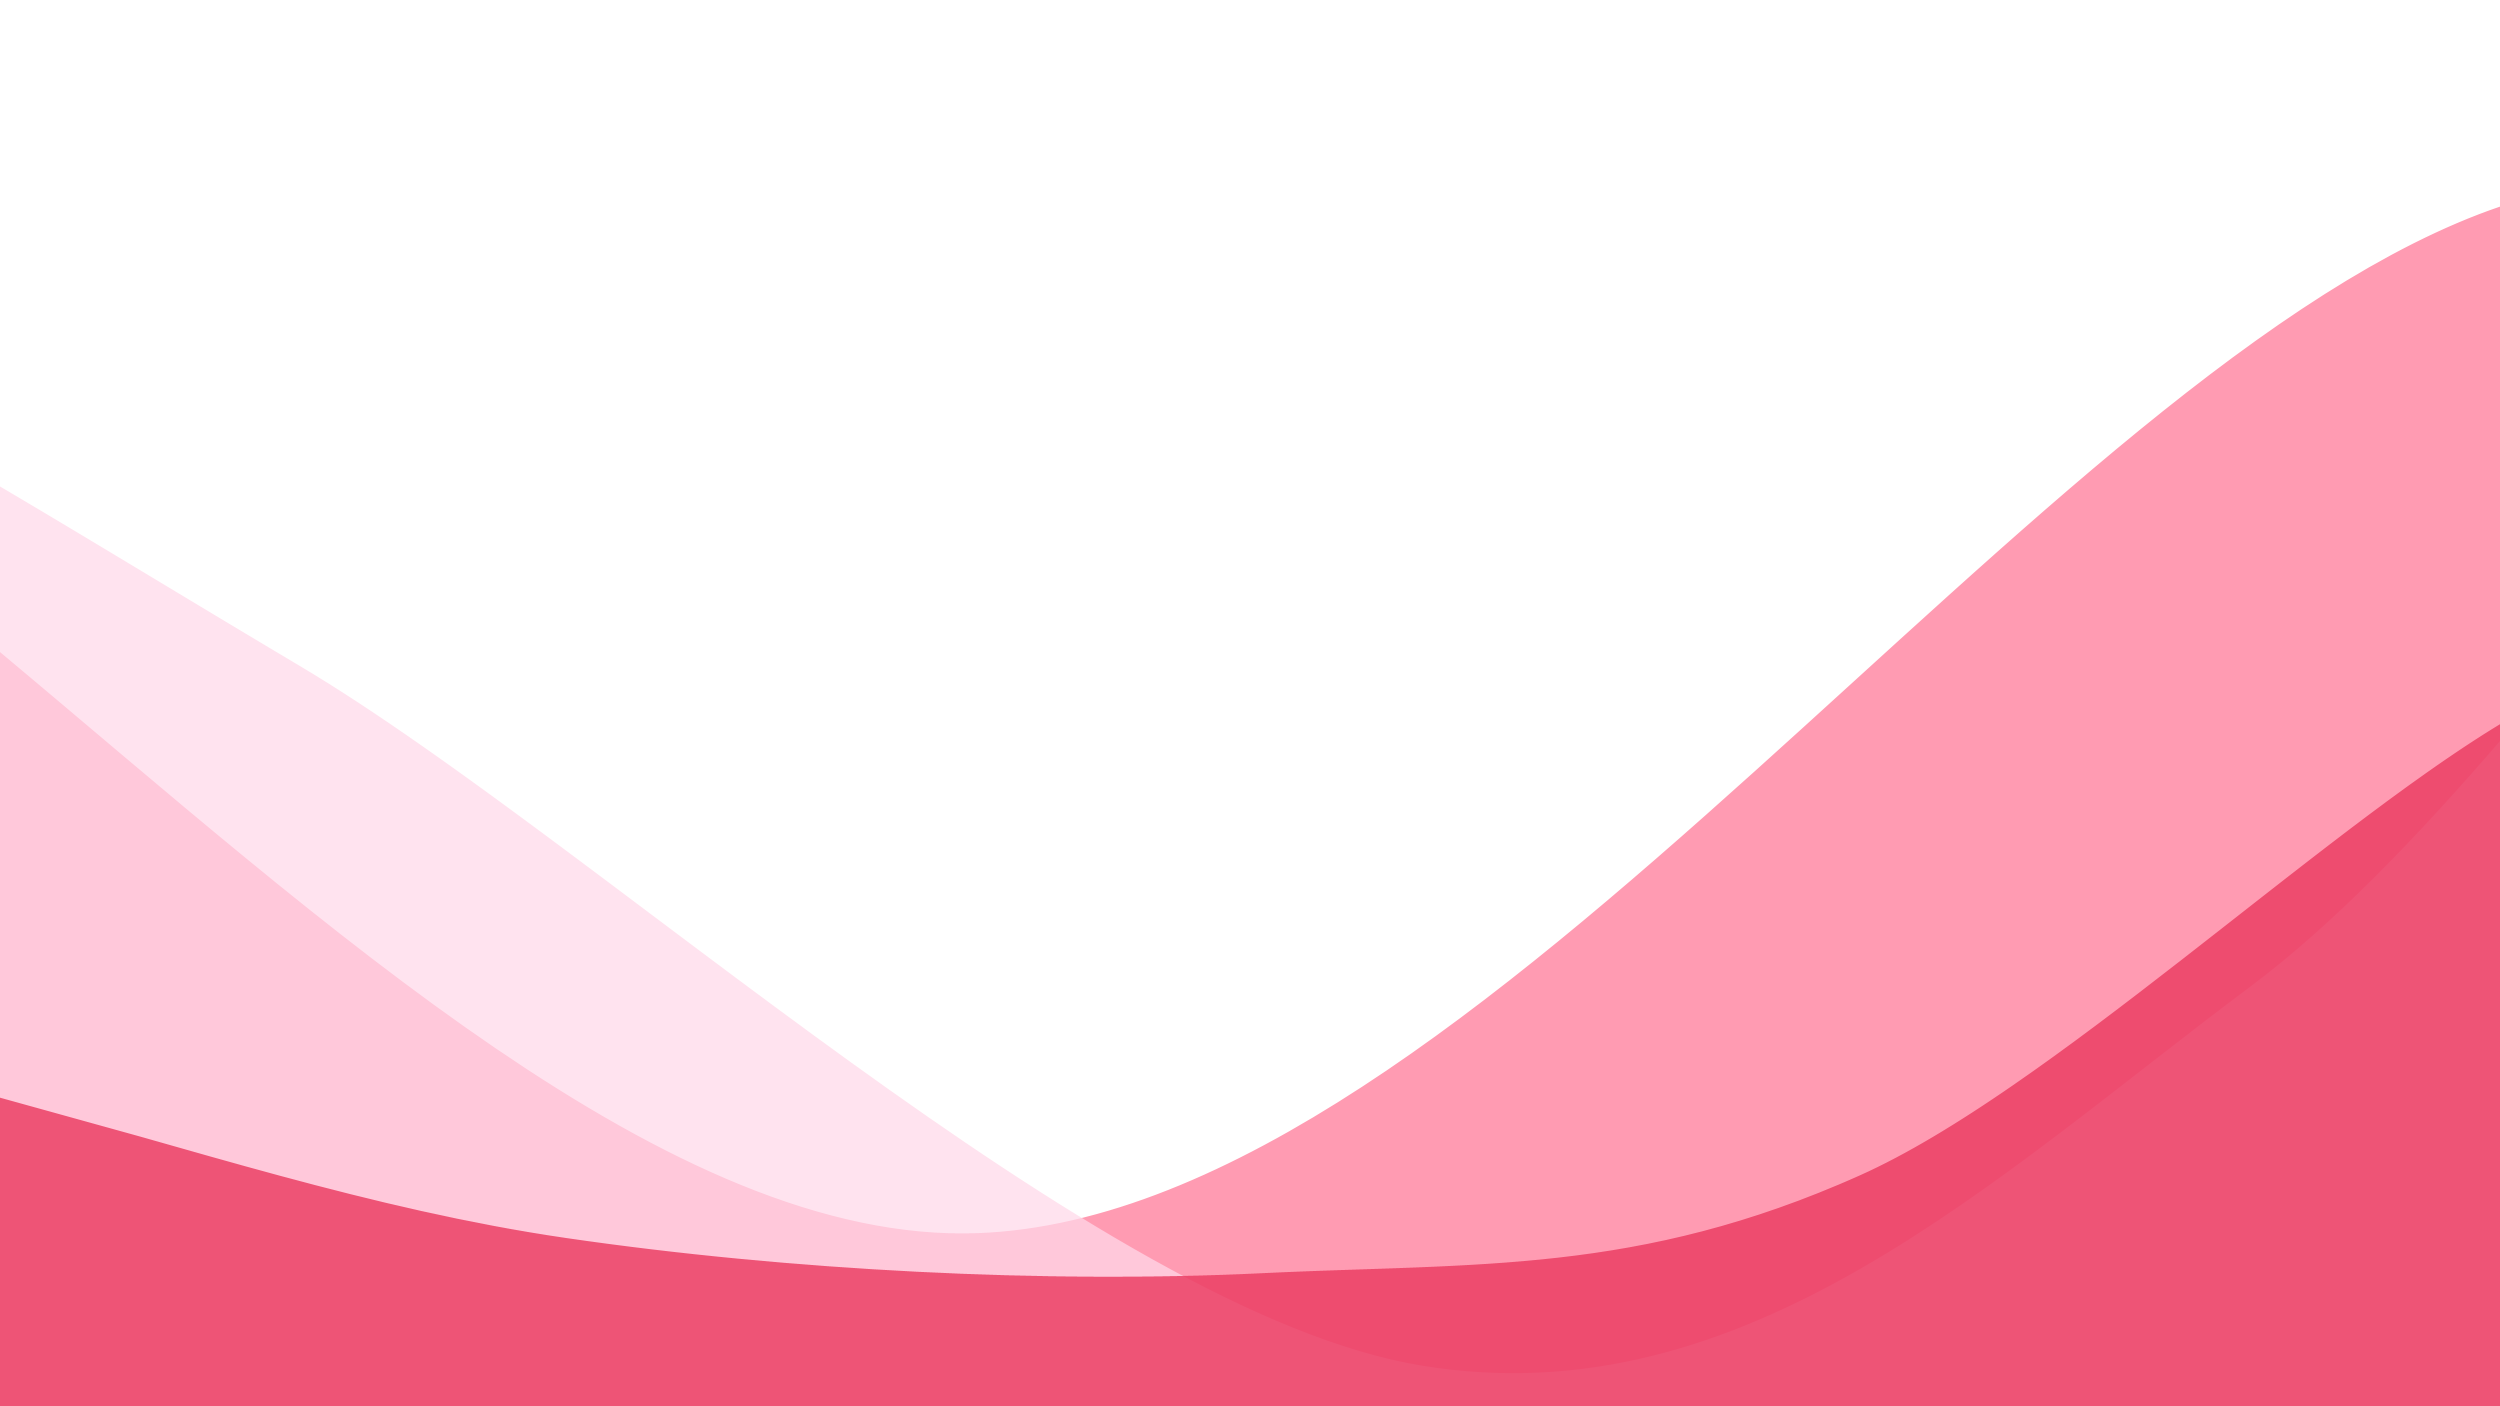
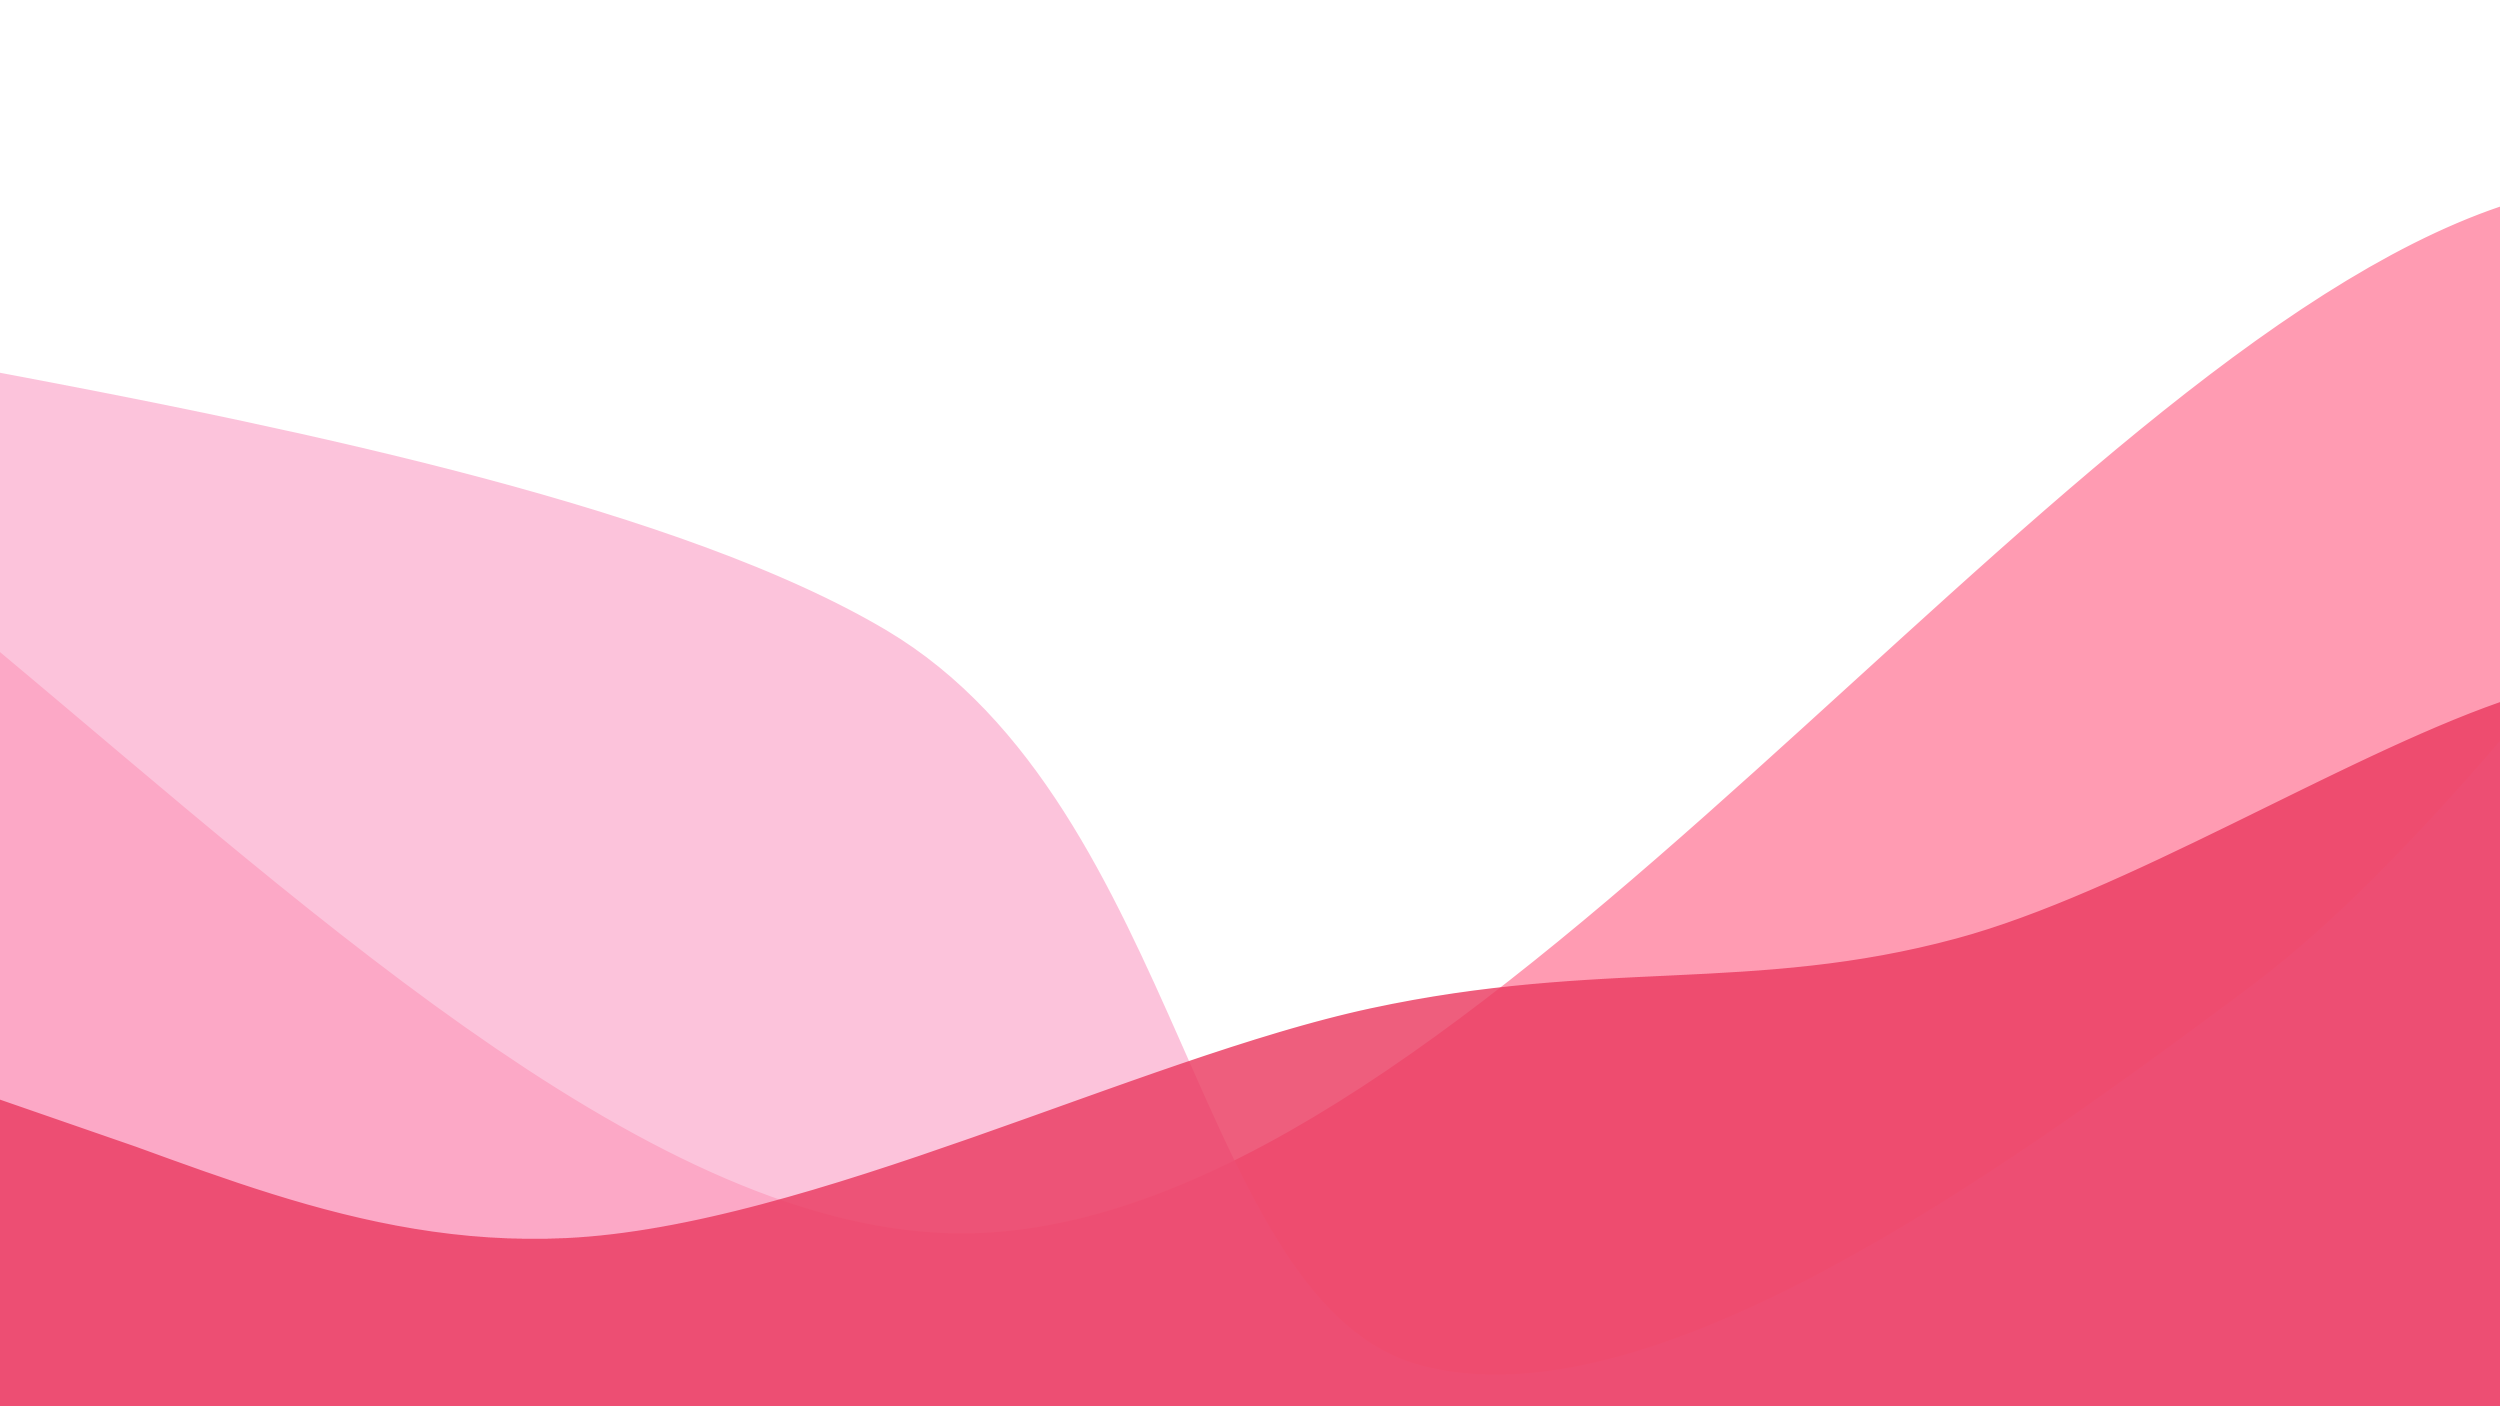
Added login page styles and fixed nav styles

Changed region(s): [[0.0, 0.2447, 1.0, 0.9175]]

diff --git a/client/src/components/header/header.js b/client/src/components/header/header.js
@@ -3,8 +3,8 @@ import { jsx, Container, Flex, Button } from 'theme-ui';
 import { keyframes } from '@emotion/core';
 import { Link } from 'react-scroll';
 // import Link from 'next/link'
-import Logo from 'components/logo';
-import LogoDark from 'assets/logo.svg';
+// import Logo from 'components/logo';
+// import LogoDark from 'assets/logo.svg';
 import { DrawerProvider } from '../../contexts/drawer/drawer.provider';
 import MobileDrawer from './mobile-drawer';
 import {menuItems, additionLinks} from './header.data';
@@ -32,10 +32,13 @@ export default function Header({ className }) {
       <header sx={styles.header} className={className} id="header">
 
         <Container sx={styles.container}>
-          {/* <Logo src={LogoDark} /> */}
+
           <a href="/" sx={styles.logoLink}><p sx={styles.logoText}>TALKHAPPI</p></a>
-          {(router.pathname === "/product" || router.pathname === "/dashboard" || router.pathname === "/signup") ? <></> : ( <>
+
+
           <Flex as="nav" sx={styles.nav}>
+
+          {(router.pathname != "/") ? (<></>) : ( <>
             {menuItems.map(({ path, label }, i) => (
               <Link
                 activeClass="active"
@@ -47,24 +50,27 @@ export default function Header({ className }) {
                 key={i}
               >
                 {label}
-              </Link>
-              
+              </Link>   
             ))}
+          </>)}
 
-          {additionLinks.map(({ path, label }, i) => (
-              <a href={path} key={i} style={styles.additionalLinksStyles}>
-                {label}
-              </a>
-            ))}
+          
+          {/* Render button only if pathname is not /product */}
+          {router.pathname != "/product" && <a href={!user ? "/signup" : "/product"} > 
+              <Button
+                className="donate__btn"
+                variant="secondary"
+                aria-label="Get Started"
+              >
+                {!user ? "Get Started" : "New Talk!"}
+              </Button>
+            </a>}
+            
 
           {/* Conditional rendering to check if user is logged in */}
           { user && (
             <>
-              <div>
-                <span>{user.email}</span>
-                <button onClick={handleClick}>Log out</button>
-              </div>  
-
+              {router.pathname != "/dashboard" && 
               <a href="/dashboard"> 
                 <Button
                   className="donate__btn"
@@ -73,44 +79,31 @@ export default function Header({ className }) {
                 >
                   Dashboard
                 </Button>
-              </a> 
+              </a> }
+              
+
+              <span>Logged in with: {user.email}</span>
+              <button onClick={handleClick} style={styles.logoutButton}>Log out</button>
             </>
           )}
 
+          {/*  */}
           { !user && (
             <>
-              <a href="/signup">
-                Signup
+              {additionLinks.map(({ path, label }, i) => (
+              <a href={path} key={i} style={styles.additionalLinksStyles}>
+                {label}
               </a>
-              <a href="/login">
-                Login
-              </a>
+            ))}
+
+            
             </>
           )}
 
-          
-          <a href="/product" > 
-            <Button
-              className="donate__btn"
-              variant="secondary"
-              aria-label="Get Started"
-            >
-              Get Started
-            </Button>
-          </a> 
-          
-
-          
 
           </Flex>
 
-          
-
-          
-          
-
           <MobileDrawer />
-          </>)}
         </Container>
       </header>
     </DrawerProvider>
@@ -171,7 +164,9 @@ const styles = {
 
   nav: {
     mx: 'auto',
+    marginRight: '0px',
     display: 'none',
+    float: 'right', 
     color: 'inherit',
     '@media screen and (min-width: 1220px)': {
       display: 'block',
@@ -199,5 +194,14 @@ const styles = {
     color: 'inherit'
   },
 
+  logoutButton: {
+    marginLeft: '10px',
+    background: 'transparent',
+    border: 'solid 1px #EA3A60',
+    borderRadius: '4px', 
+    color: '#EA3A60',
+    padding: '5px',
+    cursor: 'poiner'
+  }
   
 };

diff --git a/client/src/components/login-form.js b/client/src/components/login-form.js
@@ -1,14 +1,68 @@
 import { useState } from 'react'
 import { useLogin } from 'hooks/useLogin'
+import Background from 'assets/login-background.png'
+
 
 const styles = {
-    login: {
-        margin: '40px auto',
-        padding: '10em',
+    Container: {
+        backgroundImage: `url(${Background})`,
+        backgroundPosition: "center",
+        backgroundRepeat: "no-repeat",
+        backgroundSize: "cover",
+        backgroundAttachment: "fixed",
+        width: '100%',
+        height: '60em',
+        padding: '0',
+        display: 'flex',
+        justifyContent: 'center',
+        alignItems: 'center'
+    },
+
+    FormContainer: {
+        width: '30%', 
+        minWidth: '400px',
+        maxWidth: '1000px',
         background: '#fff',
-        borderRadius: '4px'
+        height: 'fit-content',
+        boxShadow: 'rgba(100, 100, 111, 0.2) 0px 7px 29px 0px',
+        borderRadius: '10px',
+        padding: '4em'
+        
+    },
+
+    login: {
+        width: '100%',
+        display: 'flex',
+        flexDirection: 'column',
+        borderRadius: '4px',
 
     },
+
+    inputField: {
+        margin: '5px',
+        padding: '7px',
+
+    },
+
+    feildLabel: {
+        marginTop: "50px"
+    }, 
+
+    buttonInput: {
+        marginTop: '70px',
+        padding: '10px',
+        border: 'none',
+        borderRadius: '10px',
+        background: '#f02c56',
+        color: "#fff",
+        fontSize: '14px',
+        cursor: 'pointer'
+    },
+
+    title: {
+        fontSize: '24px',
+    },
+
     error: {
         padding: '10px',
         background: '#ffefef',
@@ -18,6 +72,8 @@ const styles = {
         margin: '20px 0'
     }
 }
+
+
 
 const Login = () => {
     const [email, setEmail] = useState('')
@@ -32,26 +88,37 @@ const Login = () => {
     }
 
     return (
-        <form style={styles.login} onSubmit={handleSubmit}>
-            <h3>Log in</h3>
+        <div style={styles.Container}>
 
-            <label>Email</label>
-            <input
-                type="email"
-                onChange={(e) => setEmail(e.target.value)}
-                value={email}
-            />
+            <div style={styles.FormContainer}>
+                <form style={styles.login} onSubmit={handleSubmit}>
+                    <h3 style={styles.title}>Log in</h3>
 
-            <label>Password:</label>
-            <input
-                type="password"
-                onChange={(e) => setPassword(e.target.value)}
-                value={password}
-            />
+                    <label style={styles.feildLabel}>Email</label>
+                    <input
+                        type="email"
+                        onChange={(e) => setEmail(e.target.value)}
+                        value={email}
+                        placeholder={"Enter email"}
+                        style={styles.inputField}
+                        className="input-field"
+                    />
 
-            <button disabled={isLoading}>Log in</button>
-            {error && <div style={styles.error}>{error}</div>}
-        </form>
+                    <label style={styles.feildLabel}>Password</label>
+                    <input
+                        type="password"
+                        onChange={(e) => setPassword(e.target.value)}
+                        value={password}
+                        placeholder={"Enter password"}
+                        style={styles.inputField}
+                        className="input-field"
+                    />
+
+                    <button style={styles.buttonInput} disabled={isLoading}>Log in</button>
+                    {error && <div style={styles.error}>{error}</div>}
+                </form>
+            </div>
+        </div>  
     )
 }
 

diff --git a/client/src/components/header/header.data.js b/client/src/components/header/header.data.js
@@ -18,10 +18,10 @@ export const menuItems = [
 ];
 
 export const additionLinks = [
-  {
-    path: '/signup',
-    label: 'Sign up'
-  },
+  // {
+  //   path: '/signup',
+  //   label: 'Sign up'
+  // },
 
   {
     path: '/login',

diff --git a/client/src/components/signup-form.js b/client/src/components/signup-form.js
@@ -1,5 +1,5 @@
 import { useState } from 'react'
-import Background from 'assets/login-background.png'
+import Background from 'assets/signup-background.png'
 import { useSignup } from '../hooks/useSignup'
 
 const styles = {
